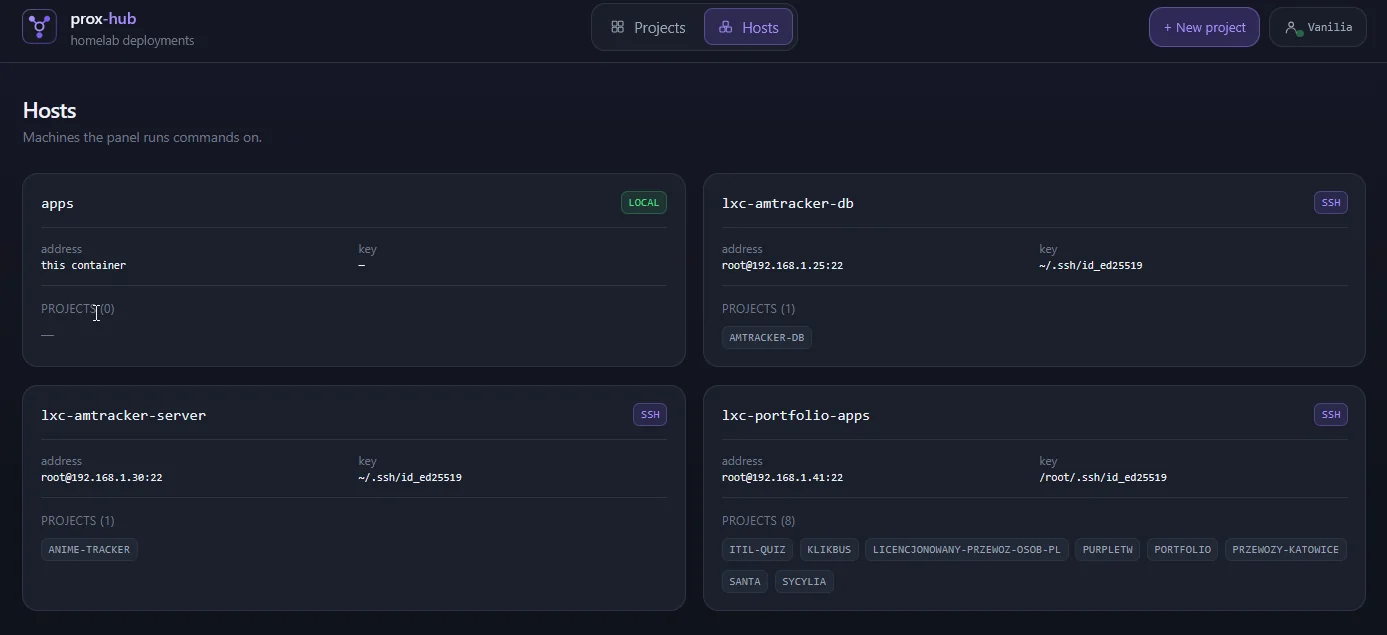
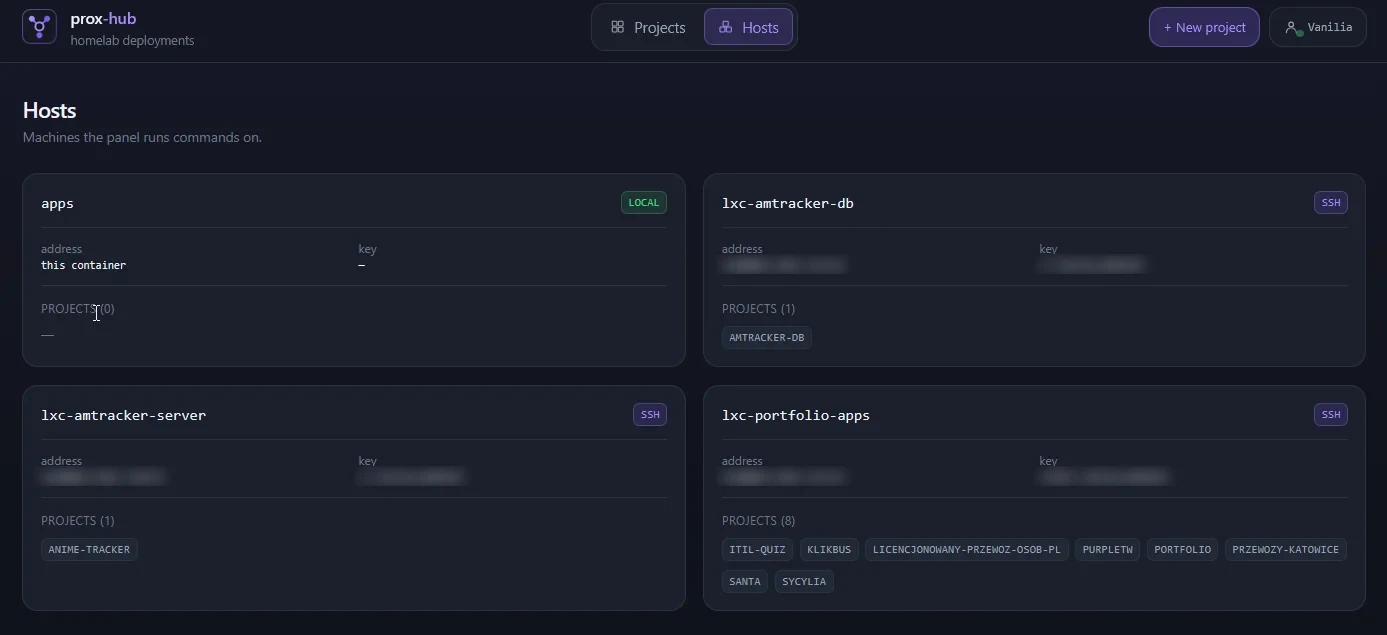
Section the screenshots, level the dashboard, blur the secrets
The invitation is one page read top to bottom, so it goes back to one
strip: headings over the parts of something that has no parts were only
telling the reader there was a division to look for.

klikbus.pl gets the divisions it actually has instead: hero sections,
about, offer, fleet, blog and contact, because fourteen shots under one
heading read as a pile and nobody was going to find the fleet in it.

The new full-page capture of the Prox Hub dashboard had seams across it:
the background gradient is tied to the viewport, so a full-page shot
stacks three of them with visible joins. The background is flat across any
row, so each row is levelled to one colour from its own left margin, which
moves the cards by at most four values out of 255 and takes the seams out
entirely. It replaces the dashboard shot as the one the frame scrolls.

Also blurred what should never have gone up: the push-to-deploy webhook
token on the project page, and the host addresses and key paths on the
hosts page.

And the work page filters sit in a raised track of their own now,
with the counts as chips inside them. As plain words on the page
background they read as a caption under the heading, which is not what a
control should look like.

diff --git a/src/content/projects.ts b/src/content/projects.ts
@@ -336,24 +336,48 @@ export const projects: Project[] = [
     cover: "/images/transport/klikbus-home.webp",
     coverTall: { src: "/images/transport/full.webp", width: 1400, height: 2387 },
     gallerySections: [
+      /* klikbus.pl broken up the way the page itself is: fourteen shots under
+         one heading read as a pile, and the headings are what let a reader
+         look up the fleet without scrolling past everything else. */
       {
-        label: { en: "klikbus.pl", pl: "klikbus.pl" },
+        label: { en: "Hero sections", pl: "Sekcje hero" },
         images: [
           "/images/transport/klikbus-home.webp",
           "/images/transport/klikbus-services-hero.webp",
-          "/images/transport/klikbus-offer.webp",
-          "/images/transport/klikbus-offer-2.webp",
           "/images/transport/klikbus-fleet-hero.webp",
-          "/images/transport/klikbus-fleet.webp",
-          "/images/transport/klikbus-fleet-2.webp",
-          "/images/transport/klikbus-fleet-3.webp",
+          "/images/transport/klikbus-footer.webp",
+        ],
+      },
+      {
+        label: { en: "About the company", pl: "O firmie" },
+        images: [
           "/images/transport/klikbus-about.webp",
           "/images/transport/klikbus-about-2.webp",
           "/images/transport/klikbus-about-3.webp",
-          "/images/transport/klikbus-blog.webp",
-          "/images/transport/klikbus-contact.webp",
-          "/images/transport/klikbus-footer.webp",
         ],
+      },
+      {
+        label: { en: "The offer", pl: "Oferta" },
+        images: [
+          "/images/transport/klikbus-offer.webp",
+          "/images/transport/klikbus-offer-2.webp",
+        ],
+      },
+      {
+        label: { en: "The fleet", pl: "Flota" },
+        images: [
+          "/images/transport/klikbus-fleet.webp",
+          "/images/transport/klikbus-fleet-2.webp",
+          "/images/transport/klikbus-fleet-3.webp",
+        ],
+      },
+      {
+        label: { en: "Blog", pl: "Blog" },
+        images: ["/images/transport/klikbus-blog.webp"],
+      },
+      {
+        label: { en: "Contact", pl: "Kontakt" },
+        images: ["/images/transport/klikbus-contact.webp"],
       },
       {
         label: { en: "przewozy-katowice.pl", pl: "przewozy-katowice.pl" },
@@ -465,7 +489,7 @@ export const projects: Project[] = [
     ],
     links: [],
     cover: "/images/prox-hub/projects.webp",
-    coverTall: { src: "/images/prox-hub/projects.webp", width: 1439, height: 1207 },
+    coverTall: { src: "/images/prox-hub/full.webp", width: 1400, height: 1246 },
     gallerySections: [
       {
         label: { en: "The board", pl: "Pulpit" },
@@ -660,27 +684,19 @@ export const projects: Project[] = [
     links: [{ label: "sicily.kkaszuba.eu", href: "https://sicily.kkaszuba.eu/", kind: "site" }],
     cover: "/images/wedding/invitation.webp",
     coverTall: { src: "/images/wedding/full.webp", width: 1400, height: 5406 },
-    gallerySections: [
-      {
-        label: { en: "The invitation", pl: "Zaproszenie" },
-        images: [
-          "/images/wedding/invitation.webp",
-          "/images/wedding/schedule.webp",
-          "/images/wedding/venue.webp",
-          "/images/wedding/food.webp",
-        ],
-      },
-      {
-        label: { en: "What a guest does", pl: "Co robi gość" },
-        images: [
-          "/images/wedding/rsvp.webp",
-          "/images/wedding/travel.webp",
-          "/images/wedding/stay.webp",
-          "/images/wedding/photos.webp",
-          "/images/wedding/music.webp",
-          "/images/wedding/contact.webp",
-        ],
-      },
+    /* One page, read top to bottom, so it gets one strip in the same order
+       rather than headings over parts of a thing that has no parts. */
+    gallery: [
+      "/images/wedding/invitation.webp",
+      "/images/wedding/schedule.webp",
+      "/images/wedding/venue.webp",
+      "/images/wedding/food.webp",
+      "/images/wedding/rsvp.webp",
+      "/images/wedding/travel.webp",
+      "/images/wedding/stay.webp",
+      "/images/wedding/photos.webp",
+      "/images/wedding/music.webp",
+      "/images/wedding/contact.webp",
     ],
     galleryAspect: "wide",
   },

diff --git a/src/components/WorkGrid.tsx b/src/components/WorkGrid.tsx
@@ -63,7 +63,17 @@ export function WorkGrid({ lang }: { lang: Locale }) {
 
   return (
     <div>
-      <div role="tablist" aria-label={t(ui.allWork, lang)} className="flex flex-wrap gap-2">
+      {/*
+       * A control rather than a row of words. As plain text on the page
+       * background the filters read as a caption under the heading and most
+       * people scrolled straight past them, so they sit in a raised track of
+       * their own with the counts as chips inside the chips.
+       */}
+      <div
+        role="tablist"
+        aria-label={t(ui.allWork, lang)}
+        className="inline-flex flex-wrap gap-1 rounded-full border border-line bg-surface p-1.5 shadow-card"
+      >
         {chips.map((chip) => {
           const selected = chip.id === active;
           return (
@@ -81,13 +91,23 @@ export function WorkGrid({ lang }: { lang: Locale }) {
               {selected && (
                 <motion.span
                   layoutId="work-filter-pill"
-                  className="absolute inset-0 rounded-full bg-accent"
+                  className="absolute inset-0 rounded-full bg-accent shadow-lift"
                   transition={{ type: "spring", stiffness: 380, damping: 32 }}
                 />
               )}
-              <span className="relative z-10">
+              <span className="relative z-10 flex items-center gap-2">
+                {/* Ties the filter to the tag it selects for, which is the only
+                    blue on the page. */}
+                {chip.id === "client" && (
+                  <span aria-hidden className="h-1.5 w-1.5 rounded-full bg-sky-400" />
+                )}
                 {chip.label}
-                <span className={cn("ml-1.5 text-xs", selected ? "opacity-70" : "text-ink-faint")}>
+                <span
+                  className={cn(
+                    "rounded-full px-1.5 py-0.5 text-[0.7rem] font-semibold tabular-nums",
+                    selected ? "bg-accent-ink/20 text-accent-ink" : "bg-surface-2 text-ink-faint",
+                  )}
+                >
                   {chip.count}
                 </span>
               </span>
